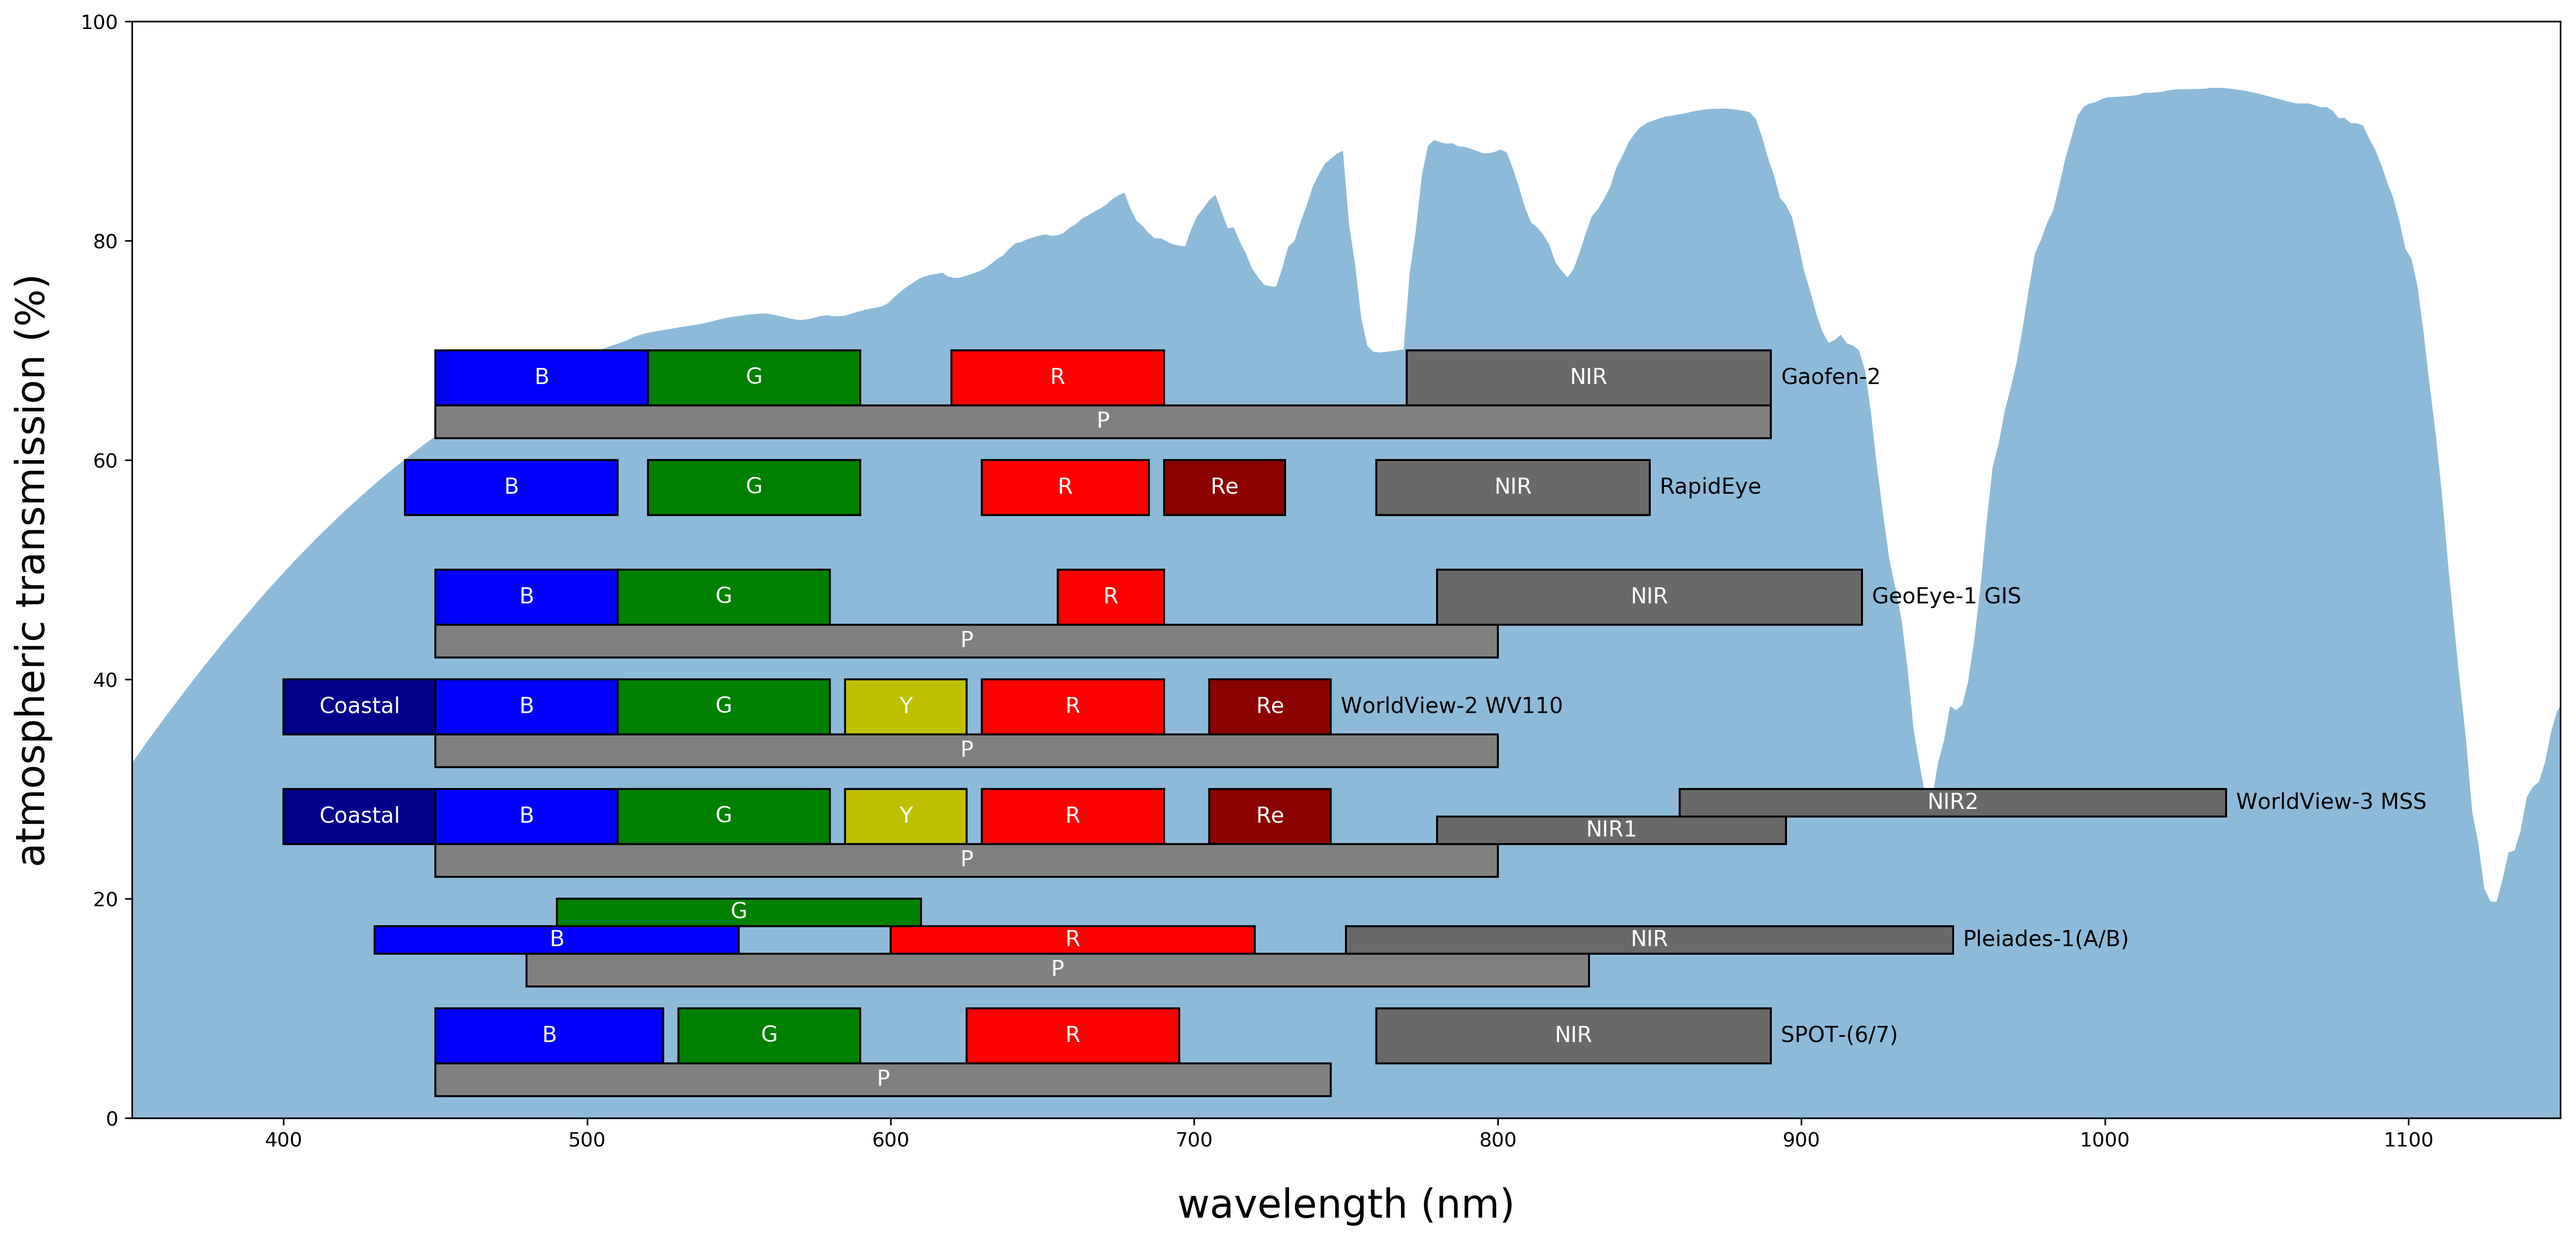
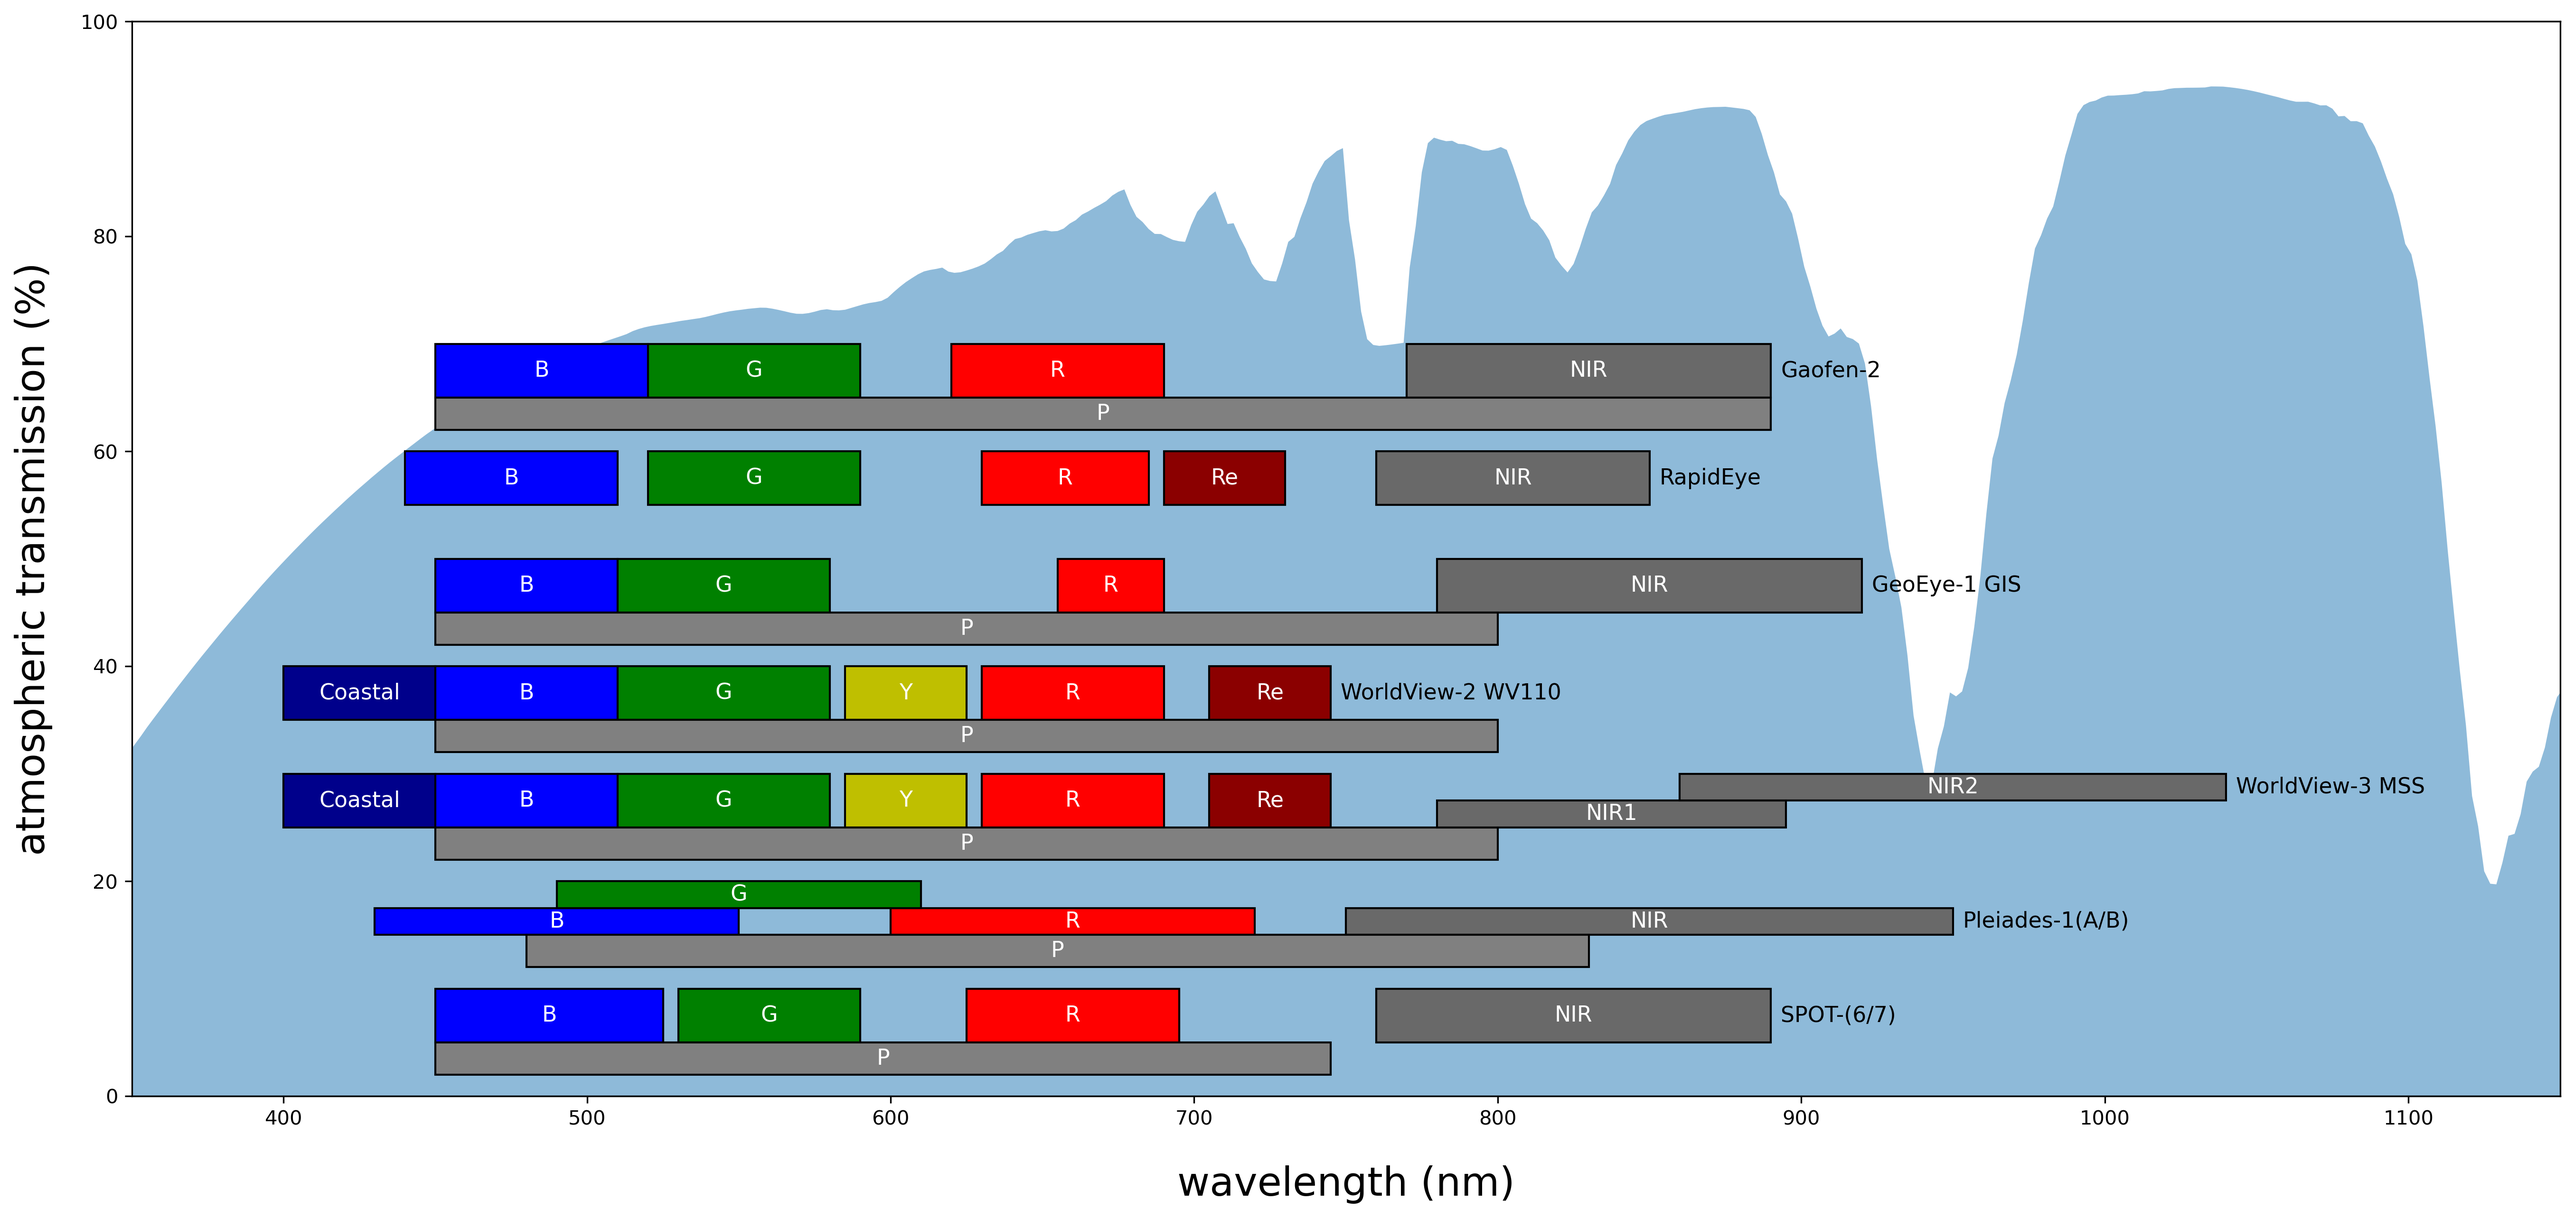
Added MicaSense plot
Added a plot for the Micasense mulktispectral camera systems (MX-Dual and Altum PT).

Also separated Sentinel-2 band 7 from the main line as it overlaps with band 8 (now it's plotted along 8A)

diff --git a/transmission_plot_MicaSense.py b/transmission_plot_MicaSense.py
@@ -1,0 +1,167 @@
+import pandas as pd
+import matplotlib.pyplot as plt
+from matplotlib import gridspec
+from matplotlib.patches import Rectangle, Polygon
+
+
+def make_band_patch(lmin, lmax, color, yloc, height, **kwargs):
+    return Rectangle((lmin, yloc), lmax-lmin, height, fc=color, ec='k', **kwargs)
+
+
+def annotate_patch(ax, patch, label, fontsize):
+    start = patch.get_x() + patch.get_width() / 2 # center horizontally
+    yloc = patch.get_y() + patch.get_height() / 2 # center vertically
+    lab = ax.annotate(label, xy=(start, yloc), xytext=(0, 0),
+                      textcoords='offset points',
+                      ha='center', va='center', color='w', size=fontsize) # use 11 pt font, centered vertically, left-aligned, ...
+    return lab
+
+
+
+def plot_sensor(ax0, ax1, sens, yloc, height, fontsize=11, **kwargs):
+    patch_list = []
+
+    for b in sens['bands']:
+        num, lmin, lmax, color = b
+        this_patch = make_band_patch(lmin, lmax, color, yloc, height, **kwargs)
+        patch_list.append(this_patch)
+
+        if num is not None:
+            if ax0.get_xlim()[1] > lmin:
+                ax0.add_patch(this_patch)
+                annotate_patch(ax0, this_patch, str(num), fontsize)
+            else:
+                ax1.add_patch(this_patch)
+                annotate_patch(ax1, this_patch, str(num), fontsize)
+
+    left = min([b.get_bbox().xmin for b in patch_list])
+
+    yloc = patch_list[0].get_y() + patch_list[0].get_height() / 2
+
+    if sens['name'] is not None:
+        if ax0.get_xlim()[0] < left:
+            ax0.annotate(sens['name'], xy=(left, yloc), xytext=(-5, 0),
+                         textcoords='offset points', ha='right', va='center', color='k', size=12)
+        else:
+            ax1.annotate(sens['name'], xy=(left, yloc), xytext=(-5, 0),
+                         textcoords='offset points', ha='right', va='center', color='k', size=12)
+
+
+data = pd.read_csv('smoothed_transmission.csv')
+data['transmission'] *= 100
+
+
+fig = plt.figure(figsize=(22, 8))
+ax = fig.add_subplot(111)
+# ax.set_frame_on(False)
+ax.spines['right'].set_visible(False)
+ax.spines['left'].set_visible(False)
+ax.set_xticks([])
+ax.set_yticks([])
+
+gs = gridspec.GridSpec(1, 3, hspace=0.1)
+
+ax0 = fig.add_subplot(gs[0, 0:2])
+ax1 = fig.add_subplot(gs[2])
+
+ax0.add_patch(Polygon(data.values, alpha=0.5))
+ax1.add_patch(Polygon(data.values, alpha=0.5))
+
+ax0.spines['right'].set_visible(False)
+# ax0.spines['top'].set_visible(False)
+ax1.spines['left'].set_visible(False)
+# ax1.spines['top'].set_visible(False)
+ax1.set_yticks([])
+
+#if only up to NIR
+ax0.set_xlim(350, 920)
+ax0.set_ylim(0, 100)
+ax0.set_xticks(range(400, 920, 100))
+
+# if SWIR
+#ax0.set_xlim(350, 2050)
+#ax0.set_ylim(0, 100)
+#ax0.set_xticks(range(400, 2050, 200))
+
+ax1.set_xlim(7450, 13950)
+ax1.set_xticks(range(8000, 15000, 2000))
+ax1.set_ylim(0, 100)
+
+ax0.tick_params(axis='x', labelsize=20)
+ax0.tick_params(axis='y', labelsize=20)
+ax1.tick_params(axis='x', labelsize=20)
+
+ax.set_ylabel('atmospheric transmission (%)', size=20, labelpad=40)
+ax.set_xlabel('wavelength (nm)', size=20, labelpad=35)
+
+kwargs = dict(transform=ax.transAxes, color='k', clip_on=False)
+d = 0.02
+off = 0.67
+ax.plot((-d + off, +d + off), (-d, +d), **kwargs)
+ax.plot((-d + off, +d + off), (1-d, 1+d), **kwargs)
+
+# now, add a sensor
+
+# MicaSense
+MX_Red = {'name': 'MX-Red/Altum-PT',
+               'bands':  [('B', 459, 491, 'b'),
+                          ('G', 546.5, 573.5, 'g'),
+                          ('R', 661, 675, 'r'),
+                          ('R-Edge', 711, 723, 'darkred'),
+                          ('NIR', 813.5, 870.5, 'dimgray')]}  
+
+MX_Blue = {'name': 'MX-Blue',
+               'bands':  [('CoastalB', 430, 458, 'mediumturquoise'),
+                          ('G', 524, 538, 'g'),
+                          ('R', 642, 658, 'r'),
+                          ('R-Edge', 700, 710, 'darkred'),
+                          ('R-Edge', 731, 749, 'darkred')]}  
+
+Altum_PT = {'name': 'Altum-PT',
+               'bands':  [('Panchromatic', 400, 850, 'slategrey'),
+                          ('Thermal', 7500, 13500, 'dimgray')]}  
+
+landsat_oli = {'name': 'Landsat 8',
+               'bands': [(1, 430, 450, 'mediumturquoise'),
+                         (2, 450, 510, 'b'),
+                         (3, 530, 590, 'g'),
+                         (4, 640, 670, 'r'),
+                         (5, 850, 880, 'darkred'),
+                         (6, 1570, 1650, 'dimgray'),
+                         (7, 2110, 2290, 'dimgray'),
+                         (9, 1360, 1380, 'silver'),
+                         (10, 10600, 11190, 'khaki'),
+                         (11, 11500, 12510, 'khaki')]}
+
+sentinel2 = {'name': 'Sentinel-2',
+             'bands': [(1, 433, 453, 'mediumturquoise'),
+                       (2, 457.5, 522.5, 'b'),
+                       (3, 542.5, 577.5, 'g'),
+                       (4, 650, 680, 'r'),
+                       (5, 697.5, 712.5, 'darkred'),
+                       (6, 732.5, 747.5, 'darkred'),
+                       (8, 784.5, 899.5, 'darkred'),
+                       (9, 935, 955, 'silver'),
+                       (10, 1360, 1390, 'silver'),
+                       (11, 1565, 1655, 'dimgray'),
+                       (12, 2100, 2280, 'dimgray')]}
+
+sentinel2_8a = {'name': None,
+                'bands': [(7, 773, 793, 'darkred'),
+                          ('8a', 855, 875, 'darkred')]}
+
+oli_pan = {'name': None,
+           'bands': [('8', 500, 680, 'slategrey')]}
+
+# And Plot!
+plot_sensor(ax0, ax1, landsat_oli, 5, 5)
+plot_sensor(ax0, ax1, oli_pan, 1.5, 3.5)
+plot_sensor(ax0, ax1, sentinel2, 15, 5)
+plot_sensor(ax0, ax1, sentinel2_8a, 12, 3)
+
+plot_sensor(ax0, ax1, MX_Blue, 30, 10)
+plot_sensor(ax0, ax1, MX_Red, 42.5, 10)
+plot_sensor(ax0, ax1, Altum_PT, 55, 10)
+
+fig.savefig('TransmissionMicasenseSensorBands.png', bbox_inches='tight', dpi=300)
+

diff --git a/transmission_plot.py b/transmission_plot.py
@@ -132,14 +132,13 @@ landsat_oli = {'name': 'Landsat 8 OLI/TIRS',
                          (10, 10600, 11190, 'khaki'),
                          (11, 11500, 12510, 'khaki')]}
 
-sentinel2 = {'name': 'Sentinel-2 MSI',
-             'bands': [(1, 433, 453, 'seagreen'),
+sentinel2 = {'name': 'Sentinel-2',
+             'bands': [(1, 433, 453, 'mediumturquoise'),
                        (2, 457.5, 522.5, 'b'),
                        (3, 542.5, 577.5, 'g'),
                        (4, 650, 680, 'r'),
                        (5, 697.5, 712.5, 'darkred'),
                        (6, 732.5, 747.5, 'darkred'),
-                       (7, 773, 793, 'darkred'),
                        (8, 784.5, 899.5, 'darkred'),
                        (9, 935, 955, 'silver'),
                        (10, 1360, 1390, 'silver'),
@@ -147,7 +146,8 @@ sentinel2 = {'name': 'Sentinel-2 MSI',
                        (12, 2100, 2280, 'dimgray')]}
 
 sentinel2_8a = {'name': None,
-                'bands': [('8a', 855, 875, 'darkred')]}
+                'bands': [(7, 773, 793, 'darkred'),
+                          ('8a', 855, 875, 'darkred')]}
 
 etm_pan = {'name': None,
            'bands': [('8', 520, 900, 'slategrey')]}
